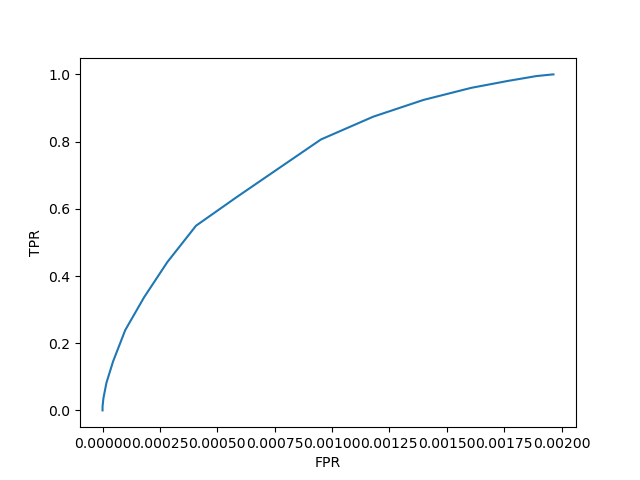
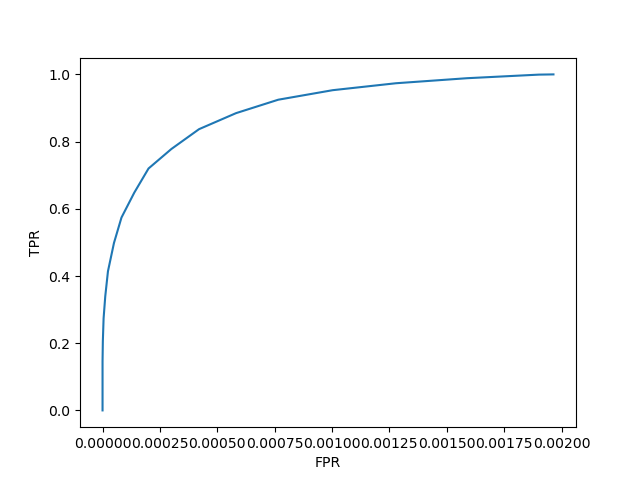
change lr

diff --git a/main.py b/main.py
@@ -86,7 +86,7 @@ def lr_tune(epoch):
     if epoch < 300:
         return 1.0 * (pow(0.5, epoch // 20))
     elif epoch < 800:
-        0.4 * (pow(0.9, epoch // 30))
+        return 0.4 * (pow(0.9, epoch // 30))
     elif epoch < 2000:
         return 0.1 * (pow(0.95, epoch // 64))
     else:
@@ -144,7 +144,7 @@ def train(args):
         0.4 * (pow(0.9, e // 30)) if e < 400 else 0.1 * (pow(0.9, e // 64)))
     scheduler = torch.optim.lr_scheduler.LambdaLR(
         optimizer,
-        lr_lambda=learning_rate_epoch,
+        lr_lambda=lr_tune,
         last_epoch=-1)
 
     trainer = Trainer(
